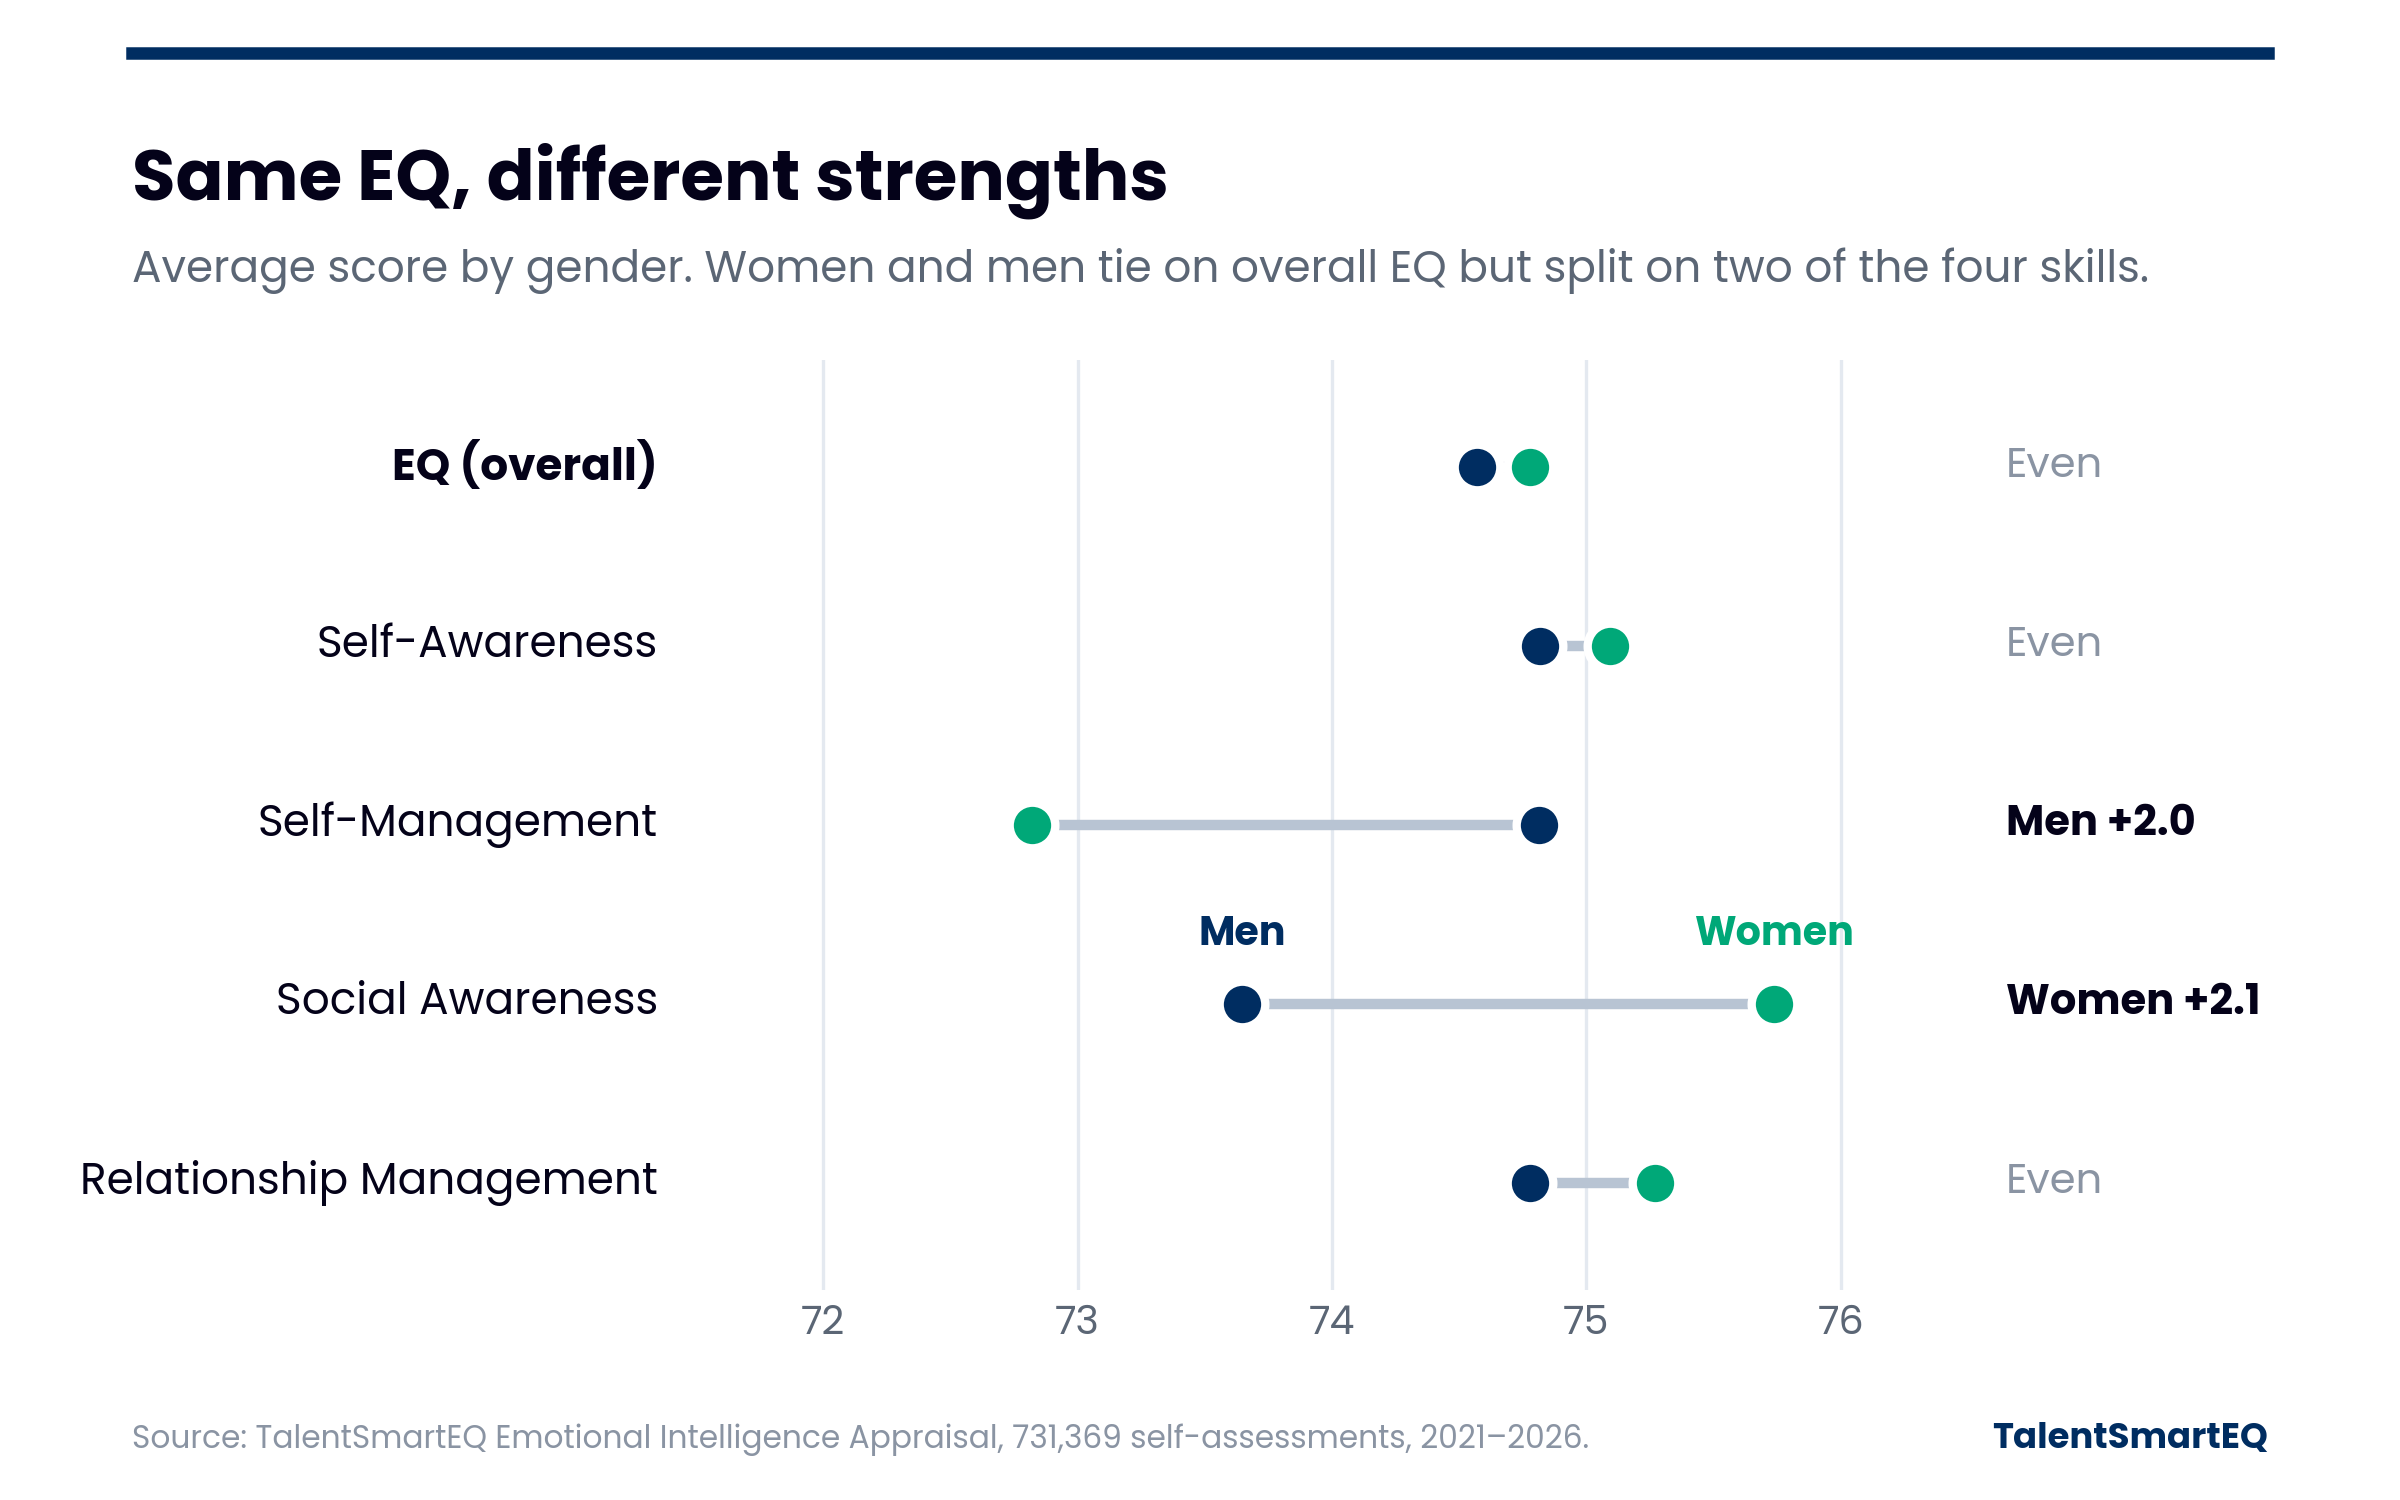
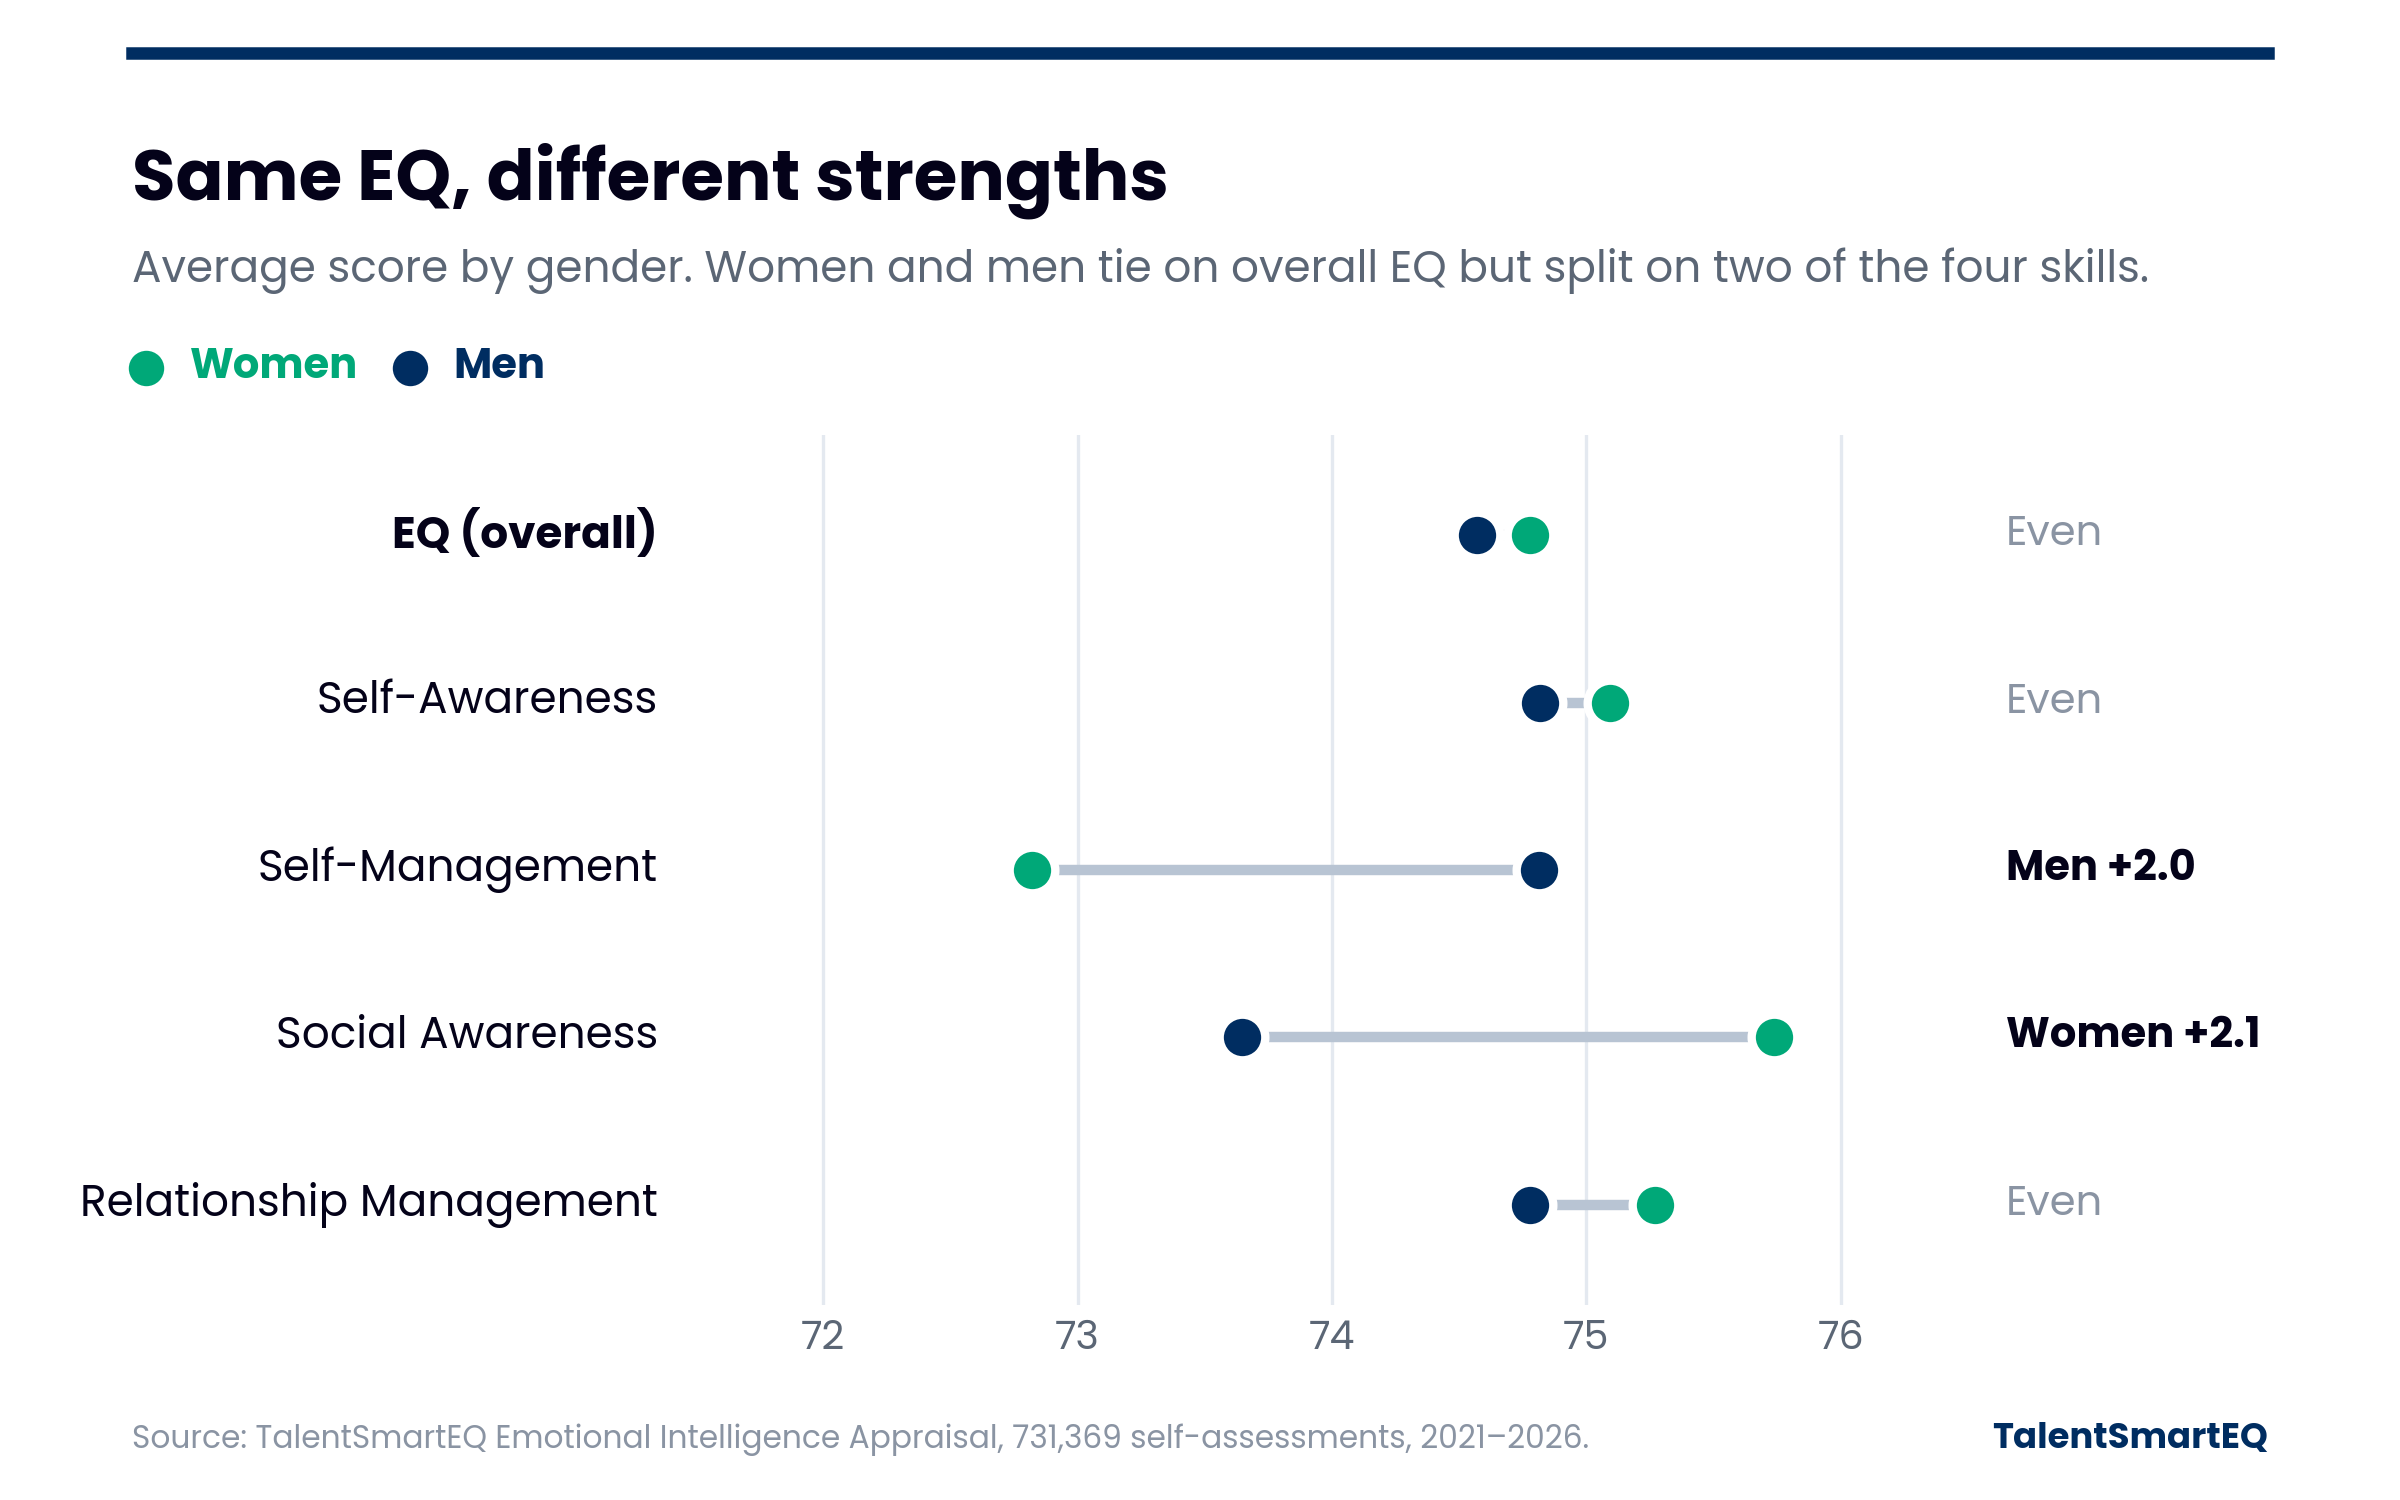
Update EQ & Gender research page
New copy with the 2026 Emotion meta-analysis context and citation, a regional
fun-fact box, gender sample note in the source line, chart key for women/men,
logo arrow on the back link with a slide-out transition.

diff --git a/research/gender.html b/research/gender.html
@@ -3,8 +3,8 @@
 <head>
 <meta charset="utf-8">
 <meta name="viewport" content="width=device-width, initial-scale=1">
-<title>Same EQ, different strengths | EQ Research &amp; Insights</title>
-<link rel="stylesheet" href="https://fonts.googleapis.com/css2?family=Archivo:wght@500;600;700;800&family=IBM+Plex+Mono:wght@400;500;600&family=IBM+Plex+Sans:wght@400;500;600&display=swap">
+<title>EQ &amp; Gender | EQ Research &amp; Insights</title>
+<link rel="stylesheet" href="https://fonts.googleapis.com/css2?family=Archivo:wght@500;600;700;800&family=IBM+Plex+Mono:wght@400;500;600&family=IBM+Plex+Sans:wght@400;500;600&family=Caveat+Brush&display=swap">
 <style>
 :root{
   /* swap these two to the real site faces once we have them */
@@ -71,33 +71,70 @@ figure{margin:0 0 2rem;background:#fff;border:1px solid var(--hair);border-radiu
 figure img{display:block;width:100%;height:auto}
 h2{font-family:var(--font-display);font-weight:700;font-size:1.15rem;margin:1.8rem 0 .6rem}
 ul{padding-left:1.2rem;margin:0} li{margin:.4rem 0;max-width:68ch}
-p{max-width:68ch;margin:0}
+p{margin:0}
 .foot{margin-top:2.4rem;padding-top:1rem;border-top:1px solid var(--hair);font-size:.78rem;color:var(--ink-3)}
 .foot p{margin:.3rem 0}
+.fact{--gold:#EABA42;position:relative;background:var(--aside);border:1px solid var(--hair);border-radius:14px;padding:1.5rem 1.2rem 1.1rem;margin:2.4rem 0 0}
+.fact .tag{position:absolute;top:-1.35rem;left:.9rem;margin:0;padding:0 .45rem;background:var(--ground);font-family:"Caveat Brush","Segoe Print",cursive;font-weight:400;font-size:2.1rem;line-height:1.1;color:var(--gold);transform:rotate(-4deg)}
+.fact h3{font-family:var(--font-display);font-weight:700;font-size:1.05rem;margin:0 0 .45rem}
+.fact p{font-size:.88rem;color:var(--ink-2)}
+.fact .fnote{font-size:.76rem;color:var(--ink-3);margin-top:.7rem}
+.fact ul{list-style:none;padding:0;margin:.8rem 0 0;display:grid;grid-template-columns:repeat(auto-fill,minmax(150px,1fr));gap:.35rem .8rem}
+.fact li{margin:0;font-size:.82rem;font-weight:600;display:flex;align-items:center;gap:.45rem}
+.fact li::before{content:"";width:.55rem;height:.55rem;border-radius:50%;background:var(--gold);flex:none}
+.clear{clear:both}
+.back{display:inline-flex;align-items:center;gap:.45rem}
+.back svg{width:.95rem;height:.8rem;fill:var(--bright);transform:rotate(-116deg);flex:none;transition:transform .2s ease}
+.back:hover svg{transform:translate(-2px,-1px) rotate(-116deg)}
+main{transition:transform .35s ease,opacity .35s ease}
+body.leaving main{transform:translateX(60px);opacity:0}
+@media (prefers-reduced-motion:reduce){main{transition:none}}
 </style>
 </head>
 <body>
 <header class="nav"><div class="in">
   <div class="mark">TalentSmart<span>EQ</span></div>
-  <a href="../index.html">&larr; EQ Research &amp; Insights</a>
+  <a class="back" href="../index.html"><svg viewBox="0 0 106 89" aria-hidden="true"><path d="M0 10 106 0 48 89 46 41Z"/></svg>EQ Research &amp; Insights</a>
 </div></header>
 <main>
   <p class="eyebrow">TalentSmartEQ Research</p>
-  <h1>Same EQ, different strengths</h1>
+  <h1>EQ &amp; Gender</h1>
   <figure><img src="../images/research/1-gender-same-eq-different-strengths.png" alt="Dot chart comparing women and men on overall EQ and the four skills"></figure>
-  <h2>What the data shows</h2>
-  <ul>
-    <li>Women average 74.8 and men 74.6, essentially the same overall EQ.</li>
-    <li>Men score 2.0 points higher in Self-Management (74.8 vs. 72.8).</li>
-    <li>Women score 2.1 points higher in Social Awareness (75.7 vs. 73.6).</li>
-    <li>Self-Awareness and Relationship Management are within half a point. Both gaps hold for individual contributors and for managers alike.</li>
-  </ul>
+  <h2>What our data shows</h2>
+  <p>Women and men rate their overall emotional intelligence almost identically (74.8 vs. 74.6), a difference of essentially zero. The differences show up in two skills: men rate themselves about 2 points higher in Self-Management, and women about 2 points higher in Social Awareness. Self-Awareness and Relationship Management are within about half a point.</p>
+  <aside class="fact" aria-label="Fun fact">
+    <p class="tag">Fun fact!</p>
+    <h3>Same pattern, around the world</h3>
+    <p>In every world region we measured, men rate themselves higher in Self-Management, women rate themselves higher in Social Awareness, and overall EQ comes out even.</p>
+    <ul>
+      <li>North America</li><li>Asia</li><li>Western Europe</li><li>Eastern Europe</li><li>Central America</li>
+      <li>South America</li><li>Australia</li><li>Middle East</li><li>Africa</li>
+    </ul>
+    <p class="fnote">Each region includes at least 1,000 women and 1,000 men.</p>
+  </aside>
+  <h2>What the broader research says</h2>
+  <p>A 2026 meta-analysis in <i>Emotion</i>, covering 28 years of studies and more than 600,000 participants, found that women score higher than men in emotional intelligence on average. However, the gap is much smaller when people rate themselves than when their abilities are tested directly. Women&rsquo;s advantage was largest in skills aimed at other people, such as reading and responding to others&rsquo; emotions, while men held a modest edge in regulating their own emotions. The gaps also varied by context, including leadership position, industry, region, and the year the data was collected.</p>
   <h2>What it means</h2>
-  <p>Gender says almost nothing about someone’s overall emotional intelligence, but it does hint at where people tend to be strongest. The best starting point is still each person’s own lowest skill, not a group average.</p>
+  <p>Our self-assessment data follows the same pattern the research predicts. Because it reflects self-ratings, it likely understates any true differences in ability. Either way, gender tells you little about any one person&rsquo;s EQ. The best starting point is still each person&rsquo;s own lowest skill, not a group average.</p>
+  <div class="clear"></div>
   <div class="foot">
-    <p>Source: 731,369 Emotional Intelligence Appraisal self-assessments, 2021&ndash;2026. Scores are on a 0&ndash;100 scale.</p>
+    <p>Source: 731,369 Emotional Intelligence Appraisal self-assessments, 2021&ndash;2026. Gender comparisons use the 689,586 from people who identified as a woman or a man. Scores are self-ratings on a 0&ndash;100 scale.</p>
+    <p>Hausfeld, M. M., Hampel, V., Bach, L. J., &amp; Menges, J. I. (2026). Putting assumptions to the test: A meta-analytic review of gender differences in emotional intelligence and specific emotion abilities. <i>Emotion</i>. <a href="https://doi.org/10.1037/emo0001733" target="_blank" rel="noopener">https://doi.org/10.1037/emo0001733</a></p>
     <p>Copyright 2026 &copy; TalentSmart Inc. All rights reserved.</p>
   </div>
 </main>
+<script>
+(function () {
+  var back = document.querySelector('.back');
+  var still = window.matchMedia('(prefers-reduced-motion: reduce)').matches;
+  back.addEventListener('click', function (e) {
+    if (still || e.metaKey || e.ctrlKey || e.shiftKey || e.button) return;
+    e.preventDefault();
+    document.body.classList.add('leaving');
+    setTimeout(function () { location.href = back.href; }, 330);
+  });
+  window.addEventListener('pageshow', function () { document.body.classList.remove('leaving'); });
+})();
+</script>
 </body>
 </html>
